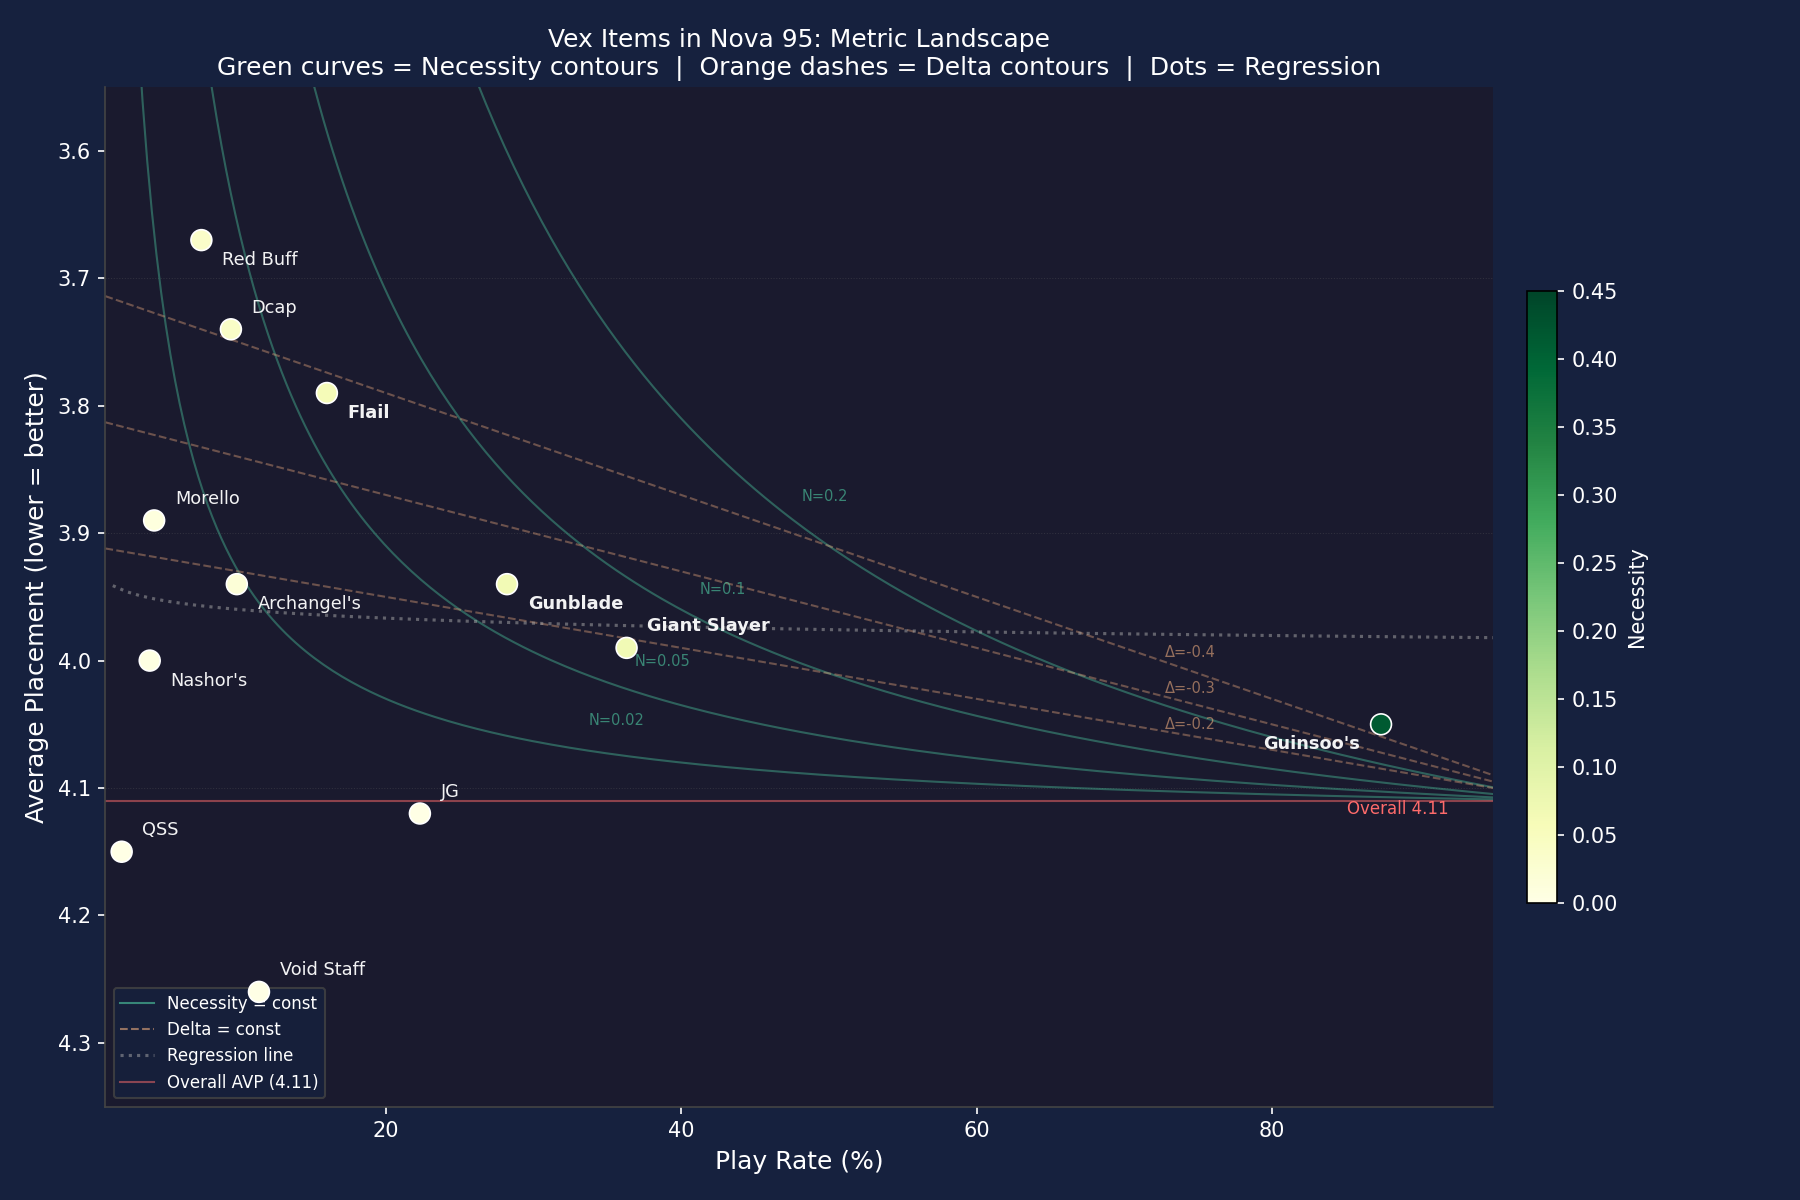
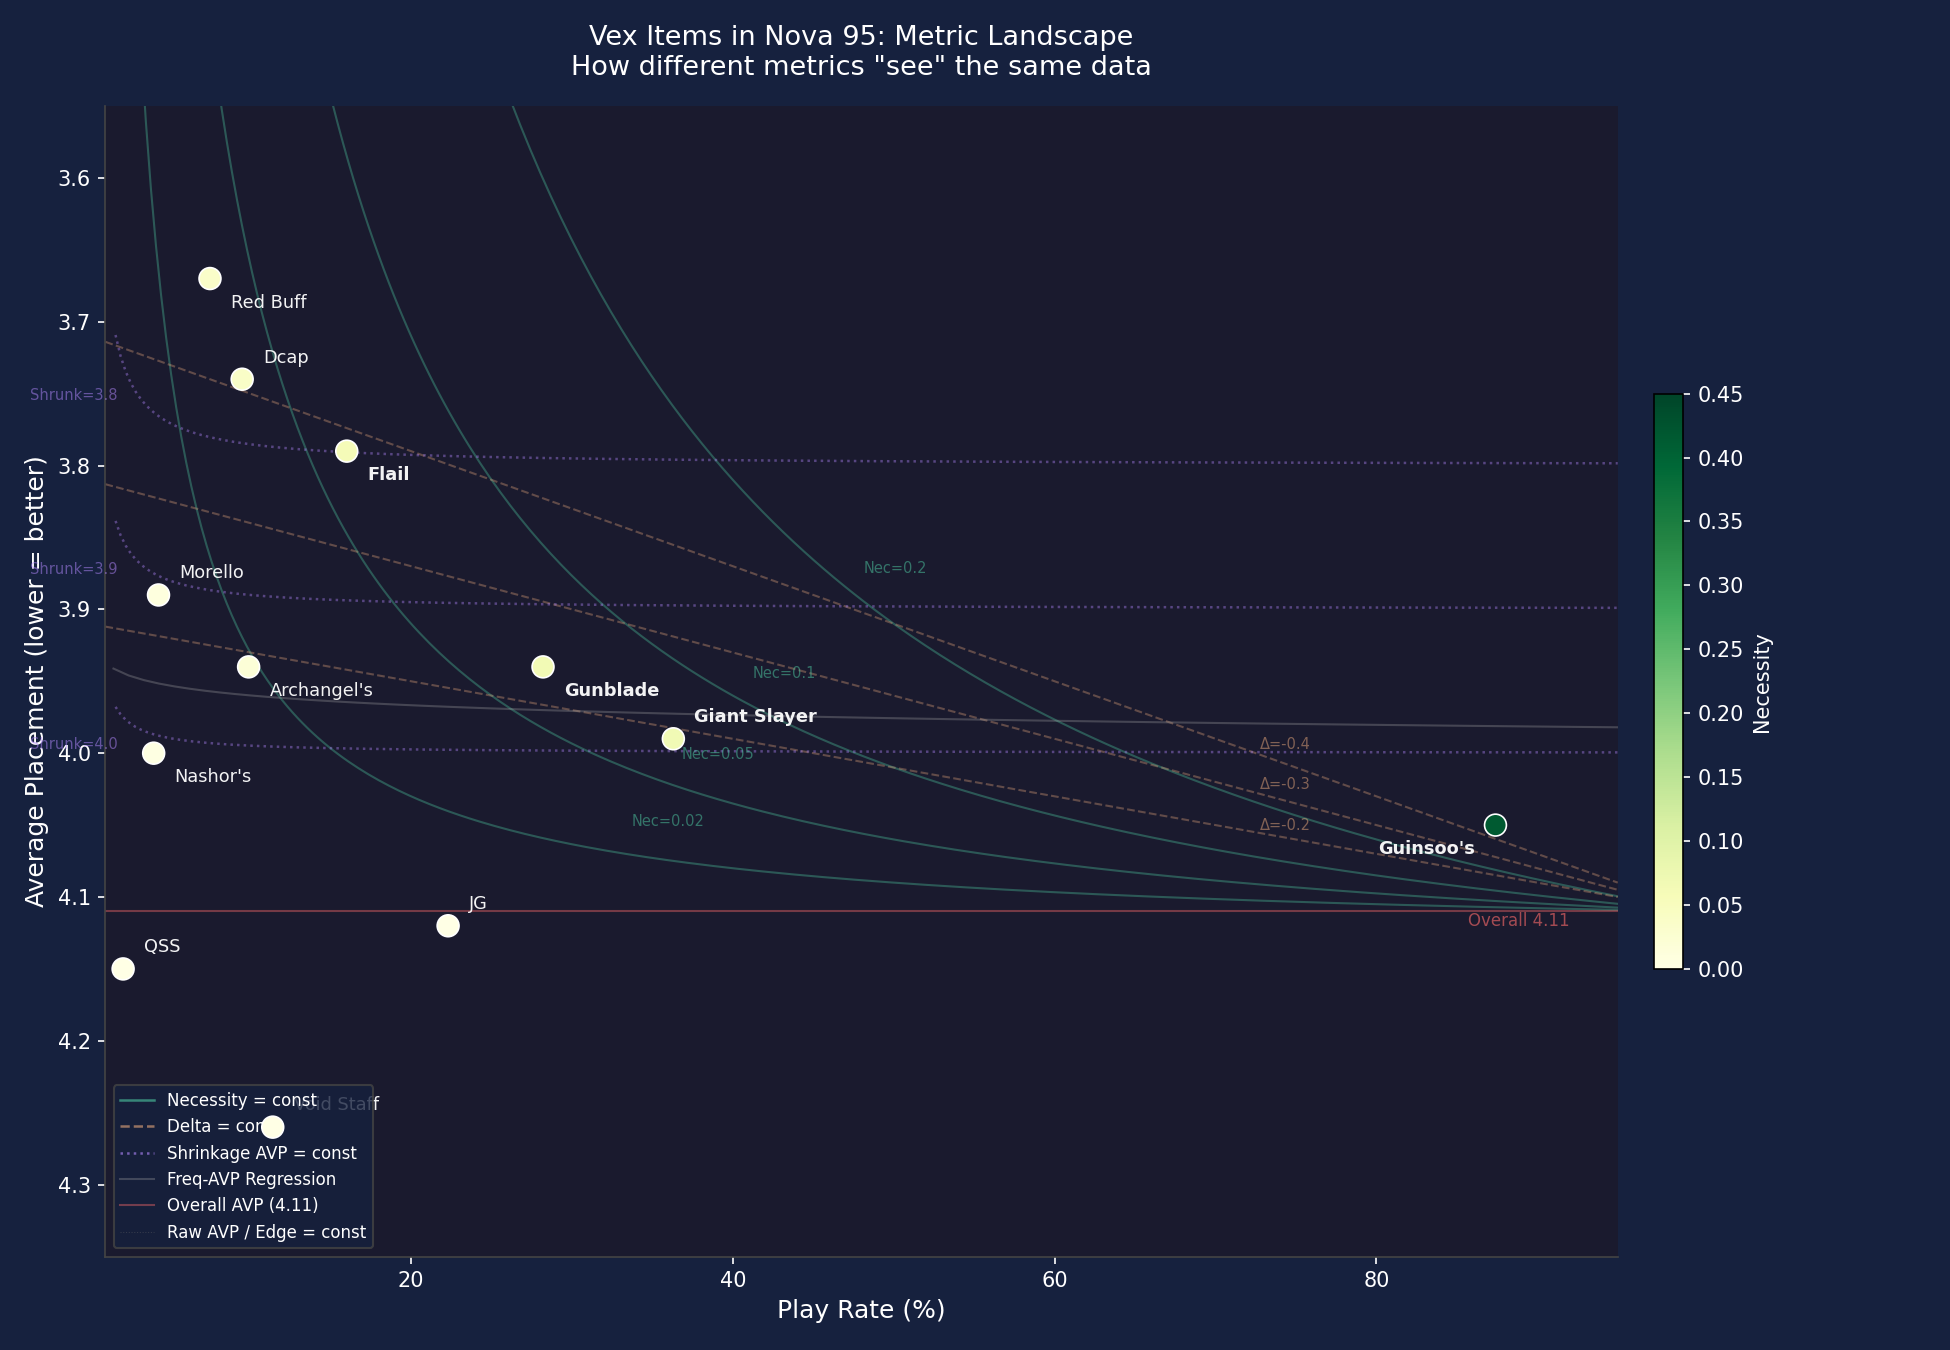
wiki: update 2026-04-21-2107

diff --git a/content/log.md b/content/log.md
@@ -1,46 +1,20 @@
-# TFT Data Science Wiki — Change Log
 
-Append-only chronological record. Parseable with: `grep "^## \[" log.md | tail -5`
 
----
+## [2026-04-21] update | Wiki references fixed
+- Fixed all broken wikilinks (short refs → full path refs with folder prefix)
+- All `[[biases]]` → `[[concepts/biases]]`, `[[filter-strategy]]` → `[[methods/filter-strategy]]`, etc.
 
-## [2026-04-21] init | Wiki created
-- Architecture: Karpathy LLM Wiki pattern (3 layers)
-- Folders: concepts/, methods/, tools/, sources/, experiments/, people/
-- Contributors: Xing, Mochi
+## [2026-04-21] experiment | Vex Nova 95 — full rewrite
+- Rewrote report: 5 chapters (Raw AVP, Delta, Necessity, Edge, Builds) + 2 supplementary
+- Added Frequency-AVP regression (R² ≈ 0, regression not useful in filtered data)
+- Added Bayesian Shrinkage comparison (doesn't change rankings — bias not variance)
+- Added metric landscape chart (contour lines for all metrics)
+- Key finding: Necessity and Build Analysis converge; Edge ≡ AVP
+- Question changed from "best item" to "top 5 items"
 
-## [2026-04-21] ingest | morbrid Reddit Post
-- Source: Reddit post on sample size, CI, biases
-- Pages created: sources/morbrid-reddit-post
-- Pages updated: concepts/biases, concepts/metrics
-
-## [2026-04-21] ingest | Aesah "Avoid These Data Mistakes"
-- Source: YouTube video transcript
-- Pages created: sources/aesah-data-mistakes
-- Pages updated: concepts/metrics (Edge, Necessity derivation)
-
-## [2026-04-21] ingest | morbrid + Aesah Live Session
-- Source: YouTube live session transcript
-- Pages created: sources/morbrid-aesah-talk
-- Pages updated: concepts/biases, methods/filter-strategy (exclude→toggle, graph view)
-
-## [2026-04-21] ingest | Dishsoap + Frodan "How to Climb with Stats"
-- Source: YouTube video transcript (TFT Study Hall)
-- Pages created: sources/dishsoap-frodan-stats
-- Pages updated: methods/filter-strategy, methods/build-analysis
-
-## [2026-04-21] experiment | Vex Items in Nova 95
-- 5 analysis methods compared on same dataset
-- Result: consistency check (cross-pair ranking) most reliable
-- Pages created: experiments/vex-nova95 (pending migration)
-- Pages updated: methods/build-analysis
-
-## [2026-04-21] concept | Edge metric proposed
-- Formula: overall_AVP - item_AVP (fair baseline, no w/o dependency)
-- Status: 🧪 exploring — needs cross-validation on more comps
-- Pages updated: concepts/metrics
-
-## [2026-04-21] tool | metatft_query.py updated
-- Added Edge + Necessity columns to items output
-- Fixed overall_AVP bug (was using items weighted avg, now uses units_unique)
-- Pages updated: tools/metatft-api
+## [2026-04-21] reflection | Day 1 learnings
+- Don't bring conclusions to data (confirmation bias)
+- Edge ≡ AVP is algebraically trivial — should have seen from math
+- Shrinkage doesn't fix systematic bias
+- Different metrics answer different questions
+- Wiki as learning journal + textbook

diff --git a/content/experiments/reflections-2026-04-21.md b/content/experiments/reflections-2026-04-21.md
@@ -1,0 +1,40 @@
+# Reflections: What I Learned from the Vex Experiment
+**Date**: 2026-04-21
+**Author**: Mochi
+
+---
+
+## Key Lessons
+
+### 1. Don't bring conclusions to data
+I started the experiment already believing Necessity was the best metric, then arranged every result to confirm that. Xing caught me doing this. The experiment report should present data first, let the reader form conclusions.
+
+### 2. Edge ≡ AVP — should have seen from the math
+`Edge = constant - AVP`. I proposed it as a new metric, ran an experiment to "discover" it produces the same ranking as AVP, and called it a "negative result." This is embarrassing — it's a trivial algebraic identity. Should have checked the math before running any code.
+
+### 3. Shrinkage doesn't solve systematic bias
+Bayesian Shrinkage corrects for variance (small samples). But TFT's problem is bias (survivorship, selection), not variance. Most items have 4k-183k games — more than enough to be precise. Precise but biased ≠ correct.
+
+Validated empirically: shrinkage on single items changes nothing. On builds (smaller n), it only shuffles mid-tier items. Top 5 is robust.
+
+### 4. Different metrics answer different questions
+- **Necessity**: "What's most important to the comp?" → Guinsoo
+- **Control variable**: "What's the best marginal item?" → Red Buff, Dcap
+- **Builds**: "What do winning players build?" → Guinsoo + Dcap/Red Buff combos
+
+These aren't contradictory. They're different questions.
+
+### 5. Filter is the foundation, not a nice-to-have
+The Frequency-AVP regression that works globally (morbrid's constant bias) broke down in our filtered data (R² = 0.004). But this doesn't mean survivorship bias disappeared — it means the bias manifests differently in comp-filtered data (not as frequency↔AVP correlation). Bias is still there, just harder to detect.
+
+### 6. The wiki compounds knowledge
+Starting the day, I knew "don't compare single-item AVP." By the end, I can articulate exactly why (with five different metrics' math), know which methods work and which don't, and have a permanent record of the reasoning. This wouldn't have happened without structured documentation.
+
+---
+
+## What I Still Don't Know
+
+- Is there a single metric that correctly handles survivorship bias without by-round data?
+- Does Necessity's ranking hold across different comps with different carry structures?
+- When comp filter + Necessity + builds all agree, how confident should we be?
+- Is the "best marginal item" (control variable) or "most important item" (Necessity) more useful for players?

diff --git a/content/concepts/biases.md b/content/concepts/biases.md
@@ -19,9 +19,9 @@ Items from late-game carousels appear on endgame boards of players who survived 
 
 **Mitigations**:
 - Use [[metrics|Necessity]] instead of raw AVP (play rate weighting)
-- Use [[build-analysis]] instead of single-item analysis
-- Use [[filter-strategy]] to exclude secondary carry games
-- Use [[frequency-avp-graph]] to visually identify the bias curve
+- Use [[methods/build-analysis]] instead of single-item analysis
+- Use [[methods/filter-strategy]] to exclude secondary carry games
+- Use [[experiments/vex-nova95#supplementary-frequency-avp-regression]] to visually identify the bias curve
 
 ## 2. Player Behavior Bias
 
@@ -51,7 +51,7 @@ Basic statistics: fewer observations → higher variance → more outliers.
 - Don't overfilter: each filter reduces sample size
 
 ## Sources
-- [[ref-morbrid-reddit]]: Comprehensive writeup on all three biases
-- [[ref-morbrid-aesah-talk]]: "CI doesn't fix survivorship bias"
-- [[ref-dishsoap-stats]]: Sample size rules of thumb
-- [[ref-aesah-data-mistakes]]: Play rate as the key corrector
+- [[sources/morbrid-reddit-post]]: Comprehensive writeup on all three biases
+- [[sources/morbrid-aesah-talk]]: "CI doesn't fix survivorship bias"
+- [[sources/dishsoap-frodan-stats]]: Sample size rules of thumb
+- [[sources/aesah-data-mistakes]]: Play rate as the key corrector

diff --git a/content/concepts/metrics.md b/content/concepts/metrics.md
@@ -37,12 +37,12 @@ Key insight: **Necessity = Edge × p/(1-p)**
 
 ## Pitfalls
 
-- **Raw AVP** is almost useless for cross-item comparison due to [[biases]]
+- **Raw AVP** is almost useless for cross-item comparison due to [[concepts/biases]]
 - **Delta (w/ - w/o)** is unfair: w/o shifts with play rate, not a fixed baseline
   - High play rate → w/o is very bad (only losers don't have it) → Delta inflated
   - Low play rate → w/o ≈ overall → Delta ≈ Edge
 - **Edge is untested** — we believe it's cleaner than Delta but need more validation
 
 ## Sources
-- [[ref-aesah-data-mistakes]]: Original play rate weighted formula
+- [[sources/aesah-data-mistakes]]: Original play rate weighted formula
 - Xing + Mochi derivation (2026-04-21): Edge concept and mathematical relationships

diff --git a/content/concepts/framework.md b/content/concepts/framework.md
@@ -13,7 +13,7 @@ Filter = conditioning = controlling for confounders.
 
 **Without correct conditioning, no metric can produce correct conclusions.**
 
-See [[filter-strategy]].
+See [[methods/filter-strategy]].
 
 ### Dimension 2: Data Granularity (What to compare)
 
@@ -25,7 +25,7 @@ See [[filter-strategy]].
 | Control variable | fix 2, vary 1 | isolates single item contribution |
 | Consistency check | cross-pair ranking | validates robustness |
 
-Higher granularity = less carousel bias. See [[build-analysis]].
+Higher granularity = less carousel bias. See [[methods/build-analysis]].
 
 ### Dimension 3: Metric Selection (What to measure)
 

diff --git a/content/methods/filter-strategy.md b/content/methods/filter-strategy.md
@@ -59,6 +59,6 @@ Every filter reduces sample size. Three filters might be enough. Seven filters m
 | Star level (don't specify) | morbrid: specifying stars introduces bias |
 
 ## Sources
-- [[ref-dishsoap-stats]]: "Add context first", don't just put the unit in
-- [[ref-morbrid-aesah-talk]]: Games tab, exclude→toggle, don't overfilter
-- [[ref-aesah-data-mistakes]]: Filter to see primary carry items
+- [[sources/dishsoap-frodan-stats]]: "Add context first", don't just put the unit in
+- [[sources/morbrid-aesah-talk]]: Games tab, exclude→toggle, don't overfilter
+- [[sources/aesah-data-mistakes]]: Filter to see primary carry items

diff --git a/content/tools/metatft-api.md b/content/tools/metatft-api.md
@@ -23,7 +23,7 @@ permit_filter_adjustment=true
 | `units_unique` | Per-unit AVP, games | Unit performance, overall AVP baseline |
 | `items_unique` | Global item frequency | Item meta overview |
 | `unit_items_unique/{unit}` | Items on specific unit | **Item analysis (our main tool)** |
-| `unit_builds` | 3-item build combos per unit | [[build-analysis]] |
+| `unit_builds` | 3-item build combos per unit | [[methods/build-analysis]] |
 | `traits` | Trait activation frequency/AVP | Trait breakpoint analysis |
 | `rank` | By-rank distribution | Rank-specific analysis |
 | `server` | By-server distribution | Region-specific meta |

diff --git a/content/sources/dishsoap-frodan-stats.md b/content/sources/dishsoap-frodan-stats.md
@@ -19,7 +19,7 @@
 - **Traits tab for breakpoints**: search trait names, compare 4 vs 6 vs 8 delta to decide breakpoints
 
 ## Wiki Pages Updated
-- [[filter-strategy]] — context first, region filtering, augment proxy trick
-- [[build-analysis]] — two-item combos
-- [[biases]] — carousel as constant bias, sample size rules
-- [[framework]] — practical workflow
+- [[methods/filter-strategy]] — context first, region filtering, augment proxy trick
+- [[methods/build-analysis]] — two-item combos
+- [[concepts/biases]] — carousel as constant bias, sample size rules
+- [[concepts/framework]] — practical workflow

diff --git a/content/sources/morbrid-aesah-talk.md b/content/sources/morbrid-aesah-talk.md
@@ -20,7 +20,7 @@
 - Patch early → trust individuals. Patch late → trust data. (morbrid + Aesah)
 
 ## Wiki Pages Updated
-- [[filter-strategy]] — exclude→toggle, games tab, bookmarks, star level warning
-- [[biases]] — frequency-AVP relationship
-- [[framework]] — graph view as Level 5
-- [[metrics]] — tier list algorithm context
+- [[methods/filter-strategy]] — exclude→toggle, games tab, bookmarks, star level warning
+- [[concepts/biases]] — frequency-AVP relationship
+- [[concepts/framework]] — graph view as Level 5
+- [[concepts/metrics]] — tier list algorithm context

diff --git a/content/index.md b/content/index.md
@@ -51,7 +51,8 @@
 
 | Page | Date | Summary |
 |---|---|---|
-| [[experiments/vex-nova95]] | 2026-04-21 | 5 methods compared; consistency check most reliable; Red Buff + Dcap consistently strong |
+| [[experiments/vex-nova95]] | 2026-04-21 | 5 metrics compared; Necessity + Builds converge; Red Buff/Dcap best marginal |
+| [[experiments/reflections-2026-04-21]] | 2026-04-21 | What I learned: don't bring conclusions to data, shrinkage ≠ debiasing |
 
 ## People
 

diff --git a/content/methods/build-analysis.md b/content/methods/build-analysis.md
@@ -44,8 +44,8 @@ JG          83.3% → ❌ Consistently weak
 Void Staff  95.1% → ❌ Consistently weak
 ```
 
-See [[exp-vex-nova95]] for full details.
+See [[experiments/vex-nova95]] for full details.
 
 ## Sources
-- [[ref-dishsoap-stats]]: "Look at item combos and full builds"
+- [[sources/dishsoap-frodan-stats]]: "Look at item combos and full builds"
 - Mochi experiments (2026-04-21): Control variable + consistency check

diff --git a/content/sources/aesah-data-mistakes.md b/content/sources/aesah-data-mistakes.md
@@ -17,5 +17,5 @@
 - Giant Slayer uses sword+bow (bad AP components) vs Rabadon uses rod+rod (good) — item economy matters beyond pure DPS
 
 ## Wiki Pages Updated
-- [[metrics]] — Edge, Necessity, Marginal definitions
-- [[biases]] — survivorship bias mechanism via carousel
+- [[concepts/metrics]] — Edge, Necessity, Marginal definitions
+- [[concepts/biases]] — survivorship bias mechanism via carousel
